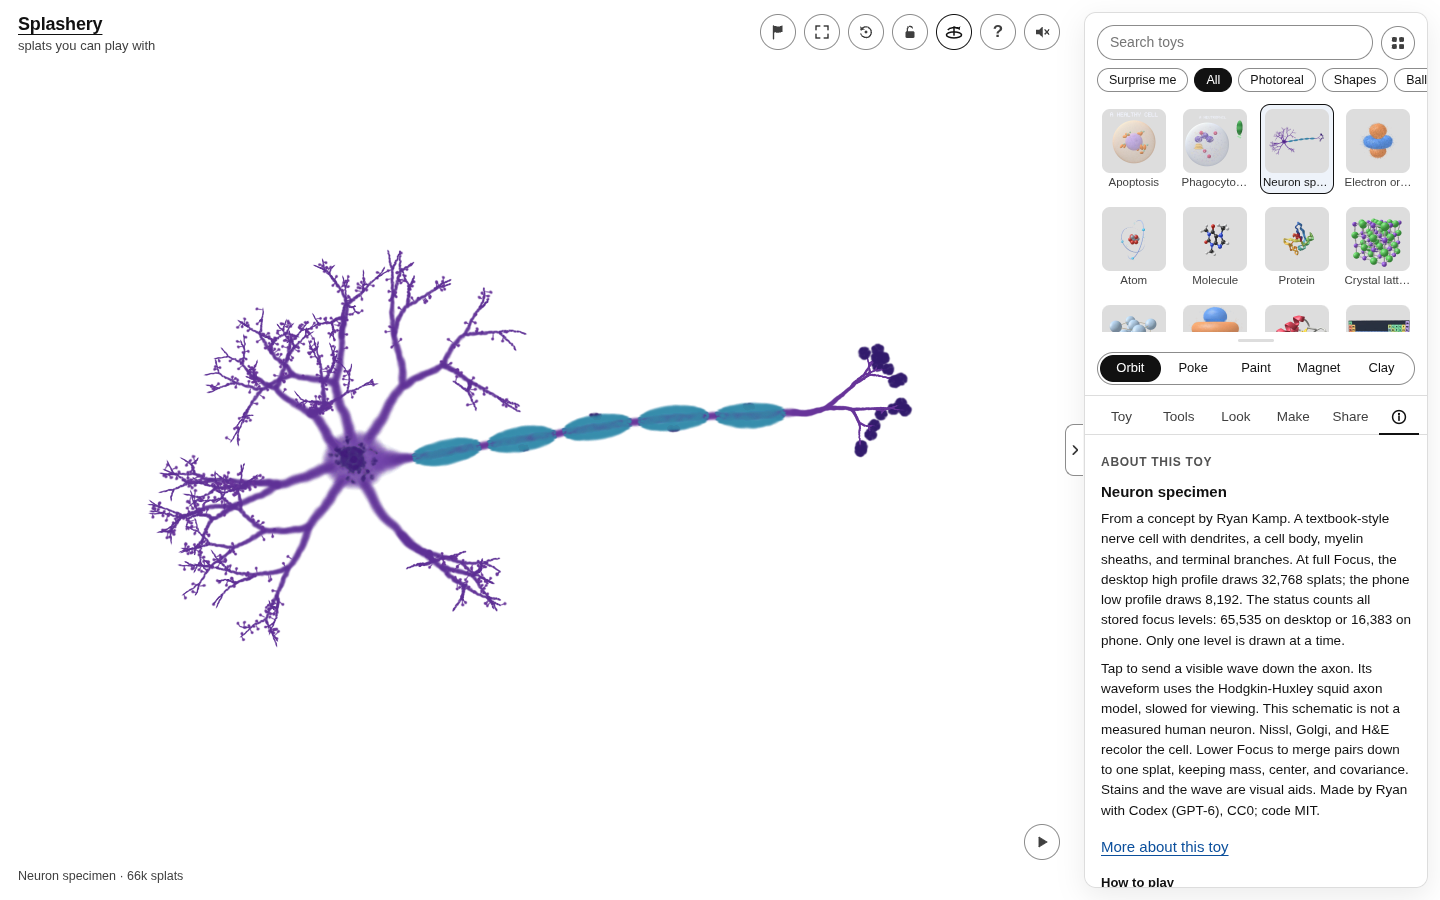
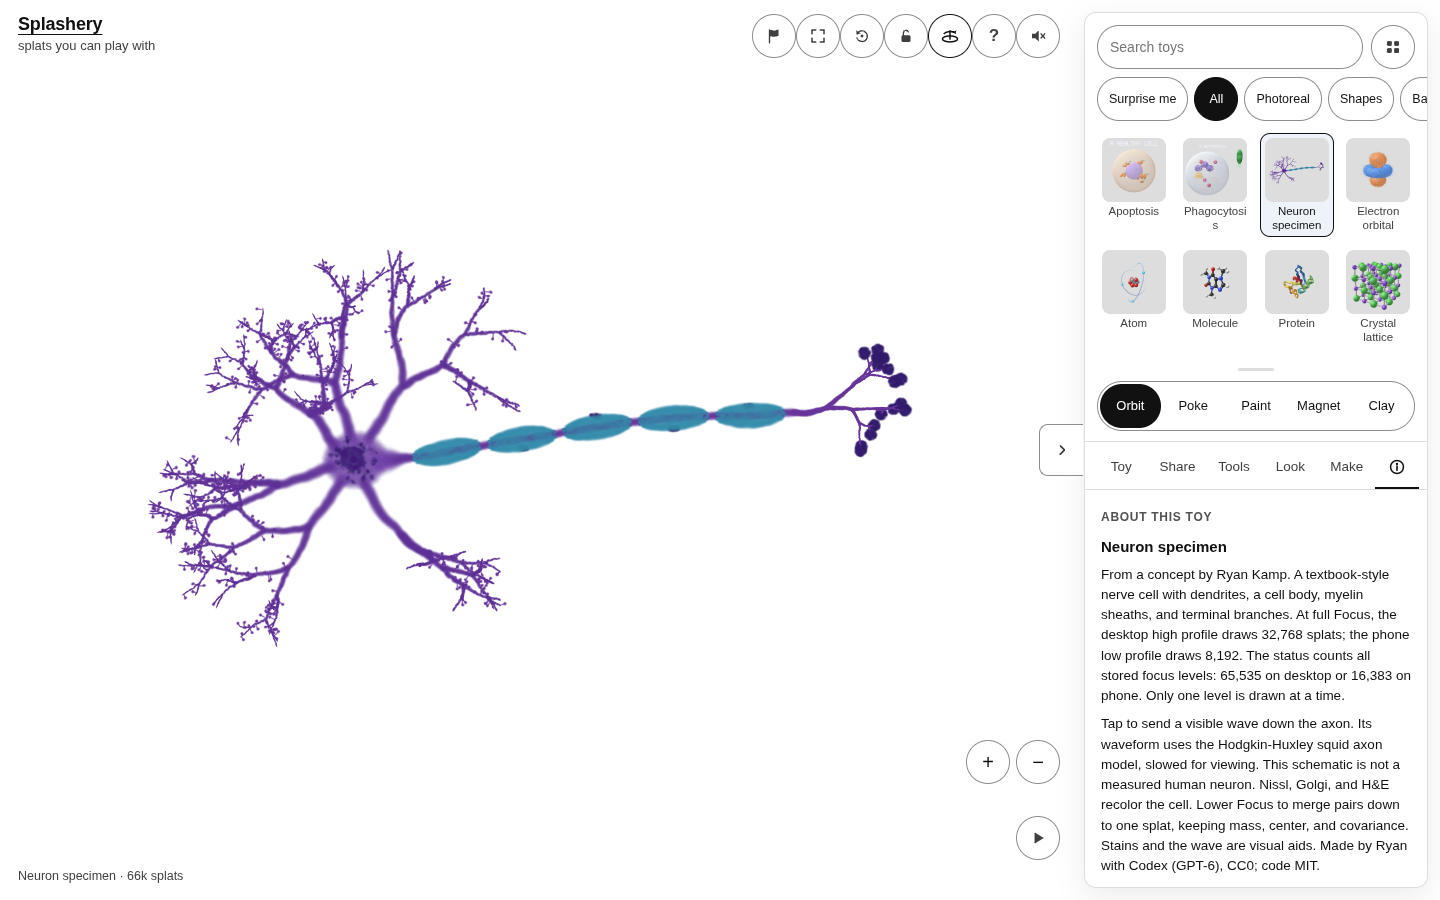
Codex task 78b: record current-main verification and refresh count screenshots

Changed region(s): [[0.5312, 0.0, 1.0, 0.9956], [0.6875, 0.84, 0.7188, 0.8711]]

diff --git a/docs/audits/portfolio-b-clips/portfolio-b.md b/docs/audits/portfolio-b-clips/portfolio-b.md
@@ -2,6 +2,41 @@
 
 October 14, 2026. Built by Codex (GPT-6) for Ryan.
 
+## October 15 synchronization and verification
+
+The branch was synchronized with `main` at `c13a9d3f` in merge commit `69a30eb6`. The source credit
+conflict preserves all of main's credits and appends this specimen's credit. Main's versions of the
+generated credits page and service worker were taken, then `tools/site-build.mjs` and
+`tools/toy-plan.mjs` regenerated the derived files. The neuron recipe and its eight-test spec were
+unchanged. This report remains on the clips branch, outside the implementation PR.
+
+| Spec    | Passed | Failed |
+| ------- | -----: | -----: |
+| cdx-pfb |      8 |      0 |
+| smoke   |     49 |      1 |
+| taps    |     63 |      0 |
+| kit     |     10 |      0 |
+| unit    |     20 |      0 |
+| site    |     11 |      0 |
+| tpg     |     11 |      0 |
+
+The fresh seven-file run had 173 tests: 172 passed, one failed, and none were skipped. The sole
+failure was `generating a procedural toy changes canvas pixels`: the exported seed was 1 after the
+test entered 4242. That test passed alone in 10.9 seconds. The generator, app, and smoke test are
+unchanged from main; the initial failure remains in the full-run counts. The previous Picture QR kit
+failure and rig smoke failure now pass with main's fixes.
+
+Both WebGL2 and WebGPU neuron checks passed, as did all 63 tap checks and 20 unit tests. The embed
+transfer check passed at 9.2 MB. Pack builds passed at 65,535 stored desktop splats in 377 ms and
+16,383 phone splats in 108 ms. Site generation, Playground-link checks, Prettier, and American
+English checks passed.
+
+Separate real-browser checks opened the original public Neuron and clicked Bacterium without labs at
+390×844 and 1440×900. The specimen's About panel displayed the stored and drawn counts at both sizes
+without page errors. Its count screenshots were refreshed and inspected, as were the part b
+screenshots. Bacterium still ranks ninth in the original Neuron page's eight-card related list.
+Standard screenshots were restored; no engine or shared-test changes belong to part b.
+
 ## Delivered
 
 `src/packs/neuron.js` grows a textbook-style multipolar neuron, with branching dendrites and spines,
@@ -41,7 +76,7 @@ this part's addition and its derived indexes. Original geometry and the thumbnai
 with Codex (GPT-6), CC0; code is offered under Splashery's MIT license. The synthesized sound is a
 quiet illustrative cue, not the sound of a real nerve cell.
 
-## Verification
+## October 14 verification
 
 - `tests/cdx-pfb.spec.mjs`: eight passing tests. Every merge and every focus level conserve the
   moments, all covariances are positive definite, stain shares sum to one, and the GPU axes
@@ -98,13 +133,14 @@ The minimum geometry depth emits 8,191 stored splats in an artificial 8,000-spla
 low profile and the Detail slider start at a higher budget, and both supported profile budgets are
 respected. This small test-budget floor is retained.
 
-## Regression failures
+## October 14 regression failures
 
 The generic kit determinism test fails before reaching this new toy: `qr-picture`, with
 `shape: "circle"` and an 8,000-splat budget, throws "This code has too much detail for a circular
 picture on this device." The same case was reproduced from unchanged `main` at `c044dc9d` in a
 separate worktree. The QR source, engine, and kit test are unchanged by this part. The kit run
-reported nine passing tests and this one failure. It is retained as a known issue in the draft PR.
+reported nine passing tests and this one failure. It was recorded as a known issue in the October 14
+draft PR. Current results are above.
 
 ## Operator follow-up
 

diff --git a/docs/audits/portfolio-b-clips/README.md b/docs/audits/portfolio-b-clips/README.md
@@ -9,7 +9,8 @@ The [port and verification report](portfolio-b.md) is kept on this review branch
 implementation PR.
 
 The updated About panel explains the stored and drawn counts on [phone](counts-390x844.png) and
-[desktop](counts-1440x900.png).
+[desktop](counts-1440x900.png). These screenshots were refreshed after synchronizing with main on
+October 15, 2026.
 
 ![Neuron specimen spike](specimen-neuron.gif)
 
